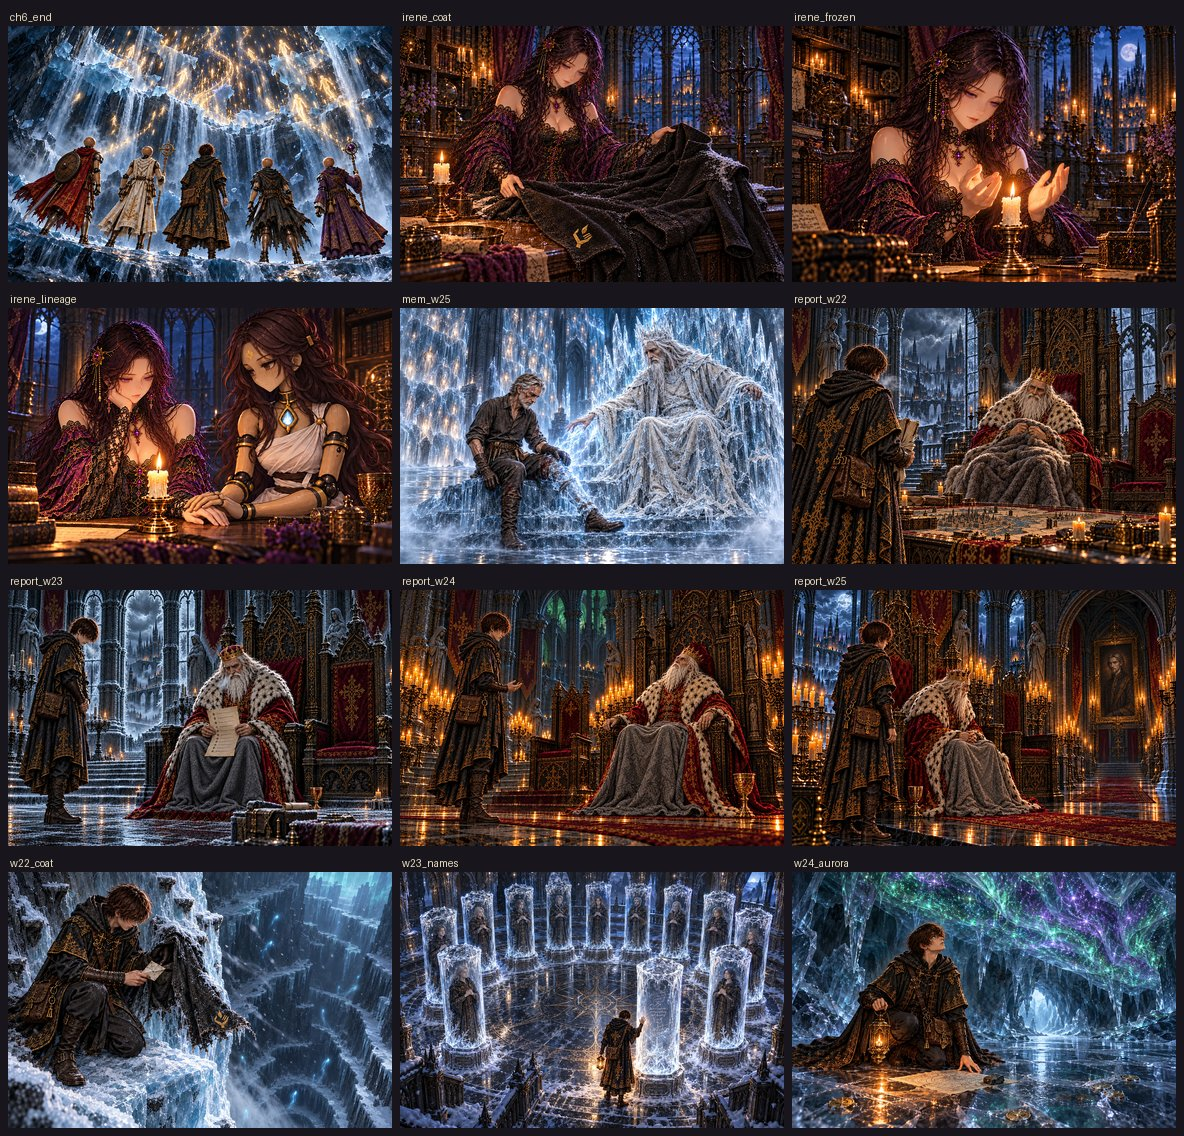
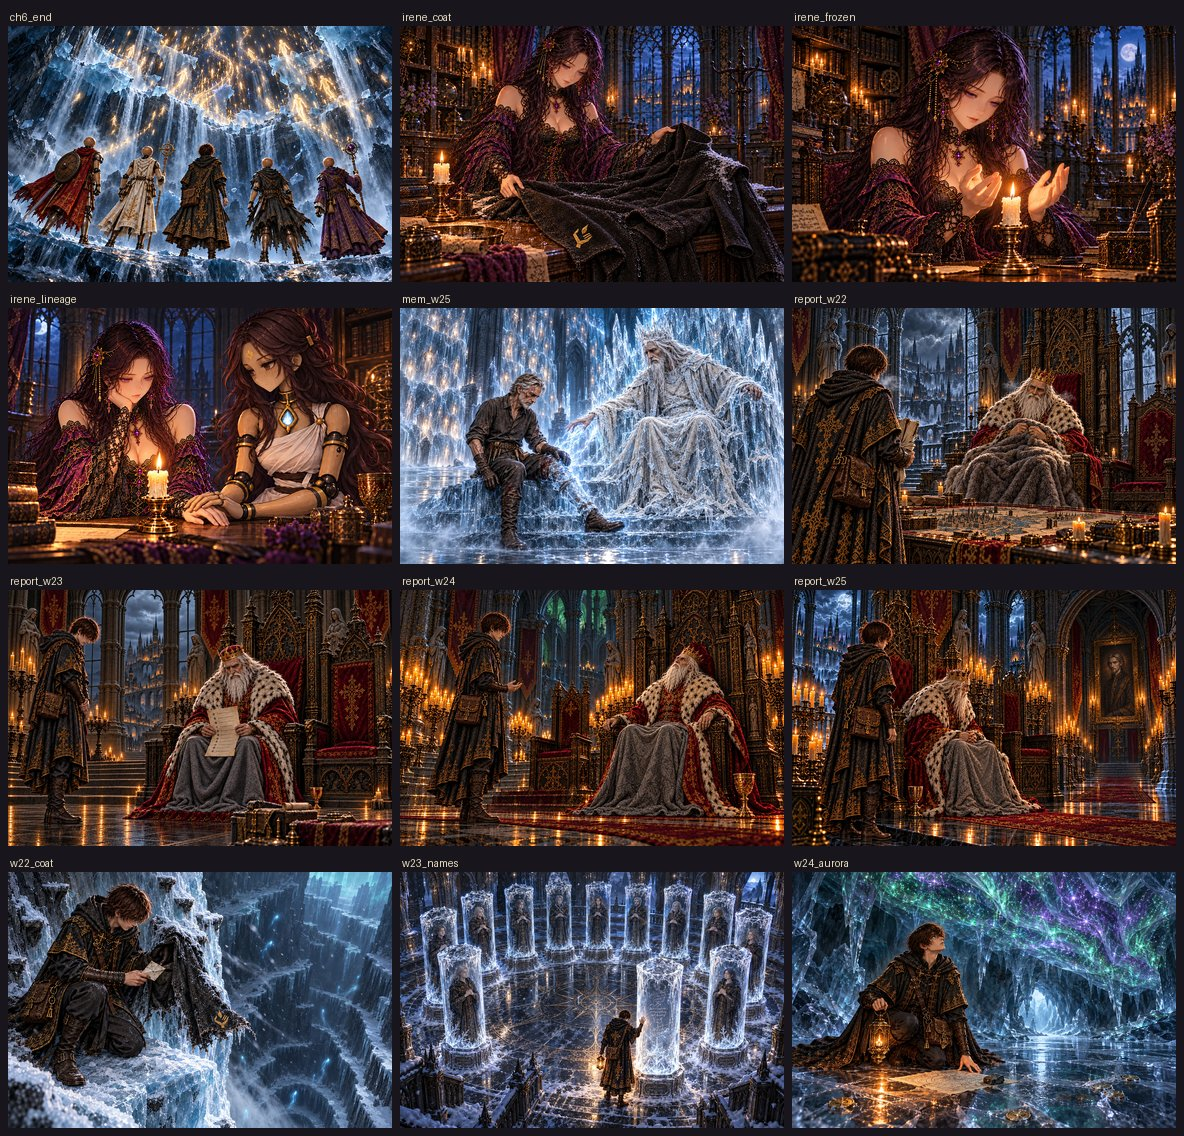
済まされていなかった処刑の王宮を凍結のない通常の姿へ修正

Changed region(s): [[0.0, 0.5238, 0.3438, 0.7702]]

diff --git a/docs/art/codex-story-art-brief.md b/docs/art/codex-story-art-brief.md
@@ -219,6 +219,14 @@ Character reference sheet on a plain dark slate-blue background with soft even l
 
 ### A. 必須 (物語の筋や正典と食い違う)
 
+**A-44. 第六章 report_w23「済まされていなかった処刑」王宮の凍結を除去** `art/story-review/chapter6/report_w23.png` (済)
+- ユーザー指示 (2026-10-17): 王宮を通常の玉座の間へ戻す。氷窟から帰っての報告であり、王宮は凍っていない。
+- 直すもの: 床・段・柱・窓枠・彫像・椅子・備品に積もる雪や氷、つらら、白い霜を取り除く。濡れて凍った床は磨かれた濃色の石床へ、窓は霜のない透明なガラスへ戻す。窓の外の王都にも雪や氷を描かない。通常の灰色の石造、黒鉄と金、深紅の織物、暖かな蝋燭の光にそろえる。
+- 保つもの: 老王の顔・白い髪とひげ・王冠・赤と白の衣装・灰色の膝掛け、手と羊皮紙、弟子の姿と礼、宰相の空の椅子、画面の構図と細かな画風。第六章なので窓の外は従来の曇った空のまま。修正前は `art/story-review/fixes/report_w23-before.png` に保存。
+```text
+...except: remove ALL ice, frost, snow and icicles from the throne room, including the floor, steps, columns, statues, window mullions, chair edges and furnishings. This is an ordinary inhabited royal palace, NOT the frozen dungeon the apprentice has just returned from. Restore clean dry grey carved stone, polished dark stone flooring with restrained candle reflections, unfrosted clear glass, black iron and gold details, and deep red textiles. Remove snowy or icy coatings from the city architecture visible outside. Give the room its normal warm amber candlelit atmosphere, retaining subtle cool light from the overcast windows. This chapter takes place before the blue sky returns: preserve the overcast sky rather than adding sunshine. Preserve the king's exact identity, white hair and beard, crown, red and white robes, grey lap blanket, both hands and the parchment; the apprentice's exact identity, costume, bowed pose and hands; the empty chancellor's chair, all furniture locations and the entire composition. Keep the same detailed fine-grained pixel-textured style. The king's white fur and grey blanket are cloth and fur: retain them unchanged. Do not add people, text or new objects.
+```
+
 **A-43. 第六章 irene_coat「師の外套」外套の形と印の向き** `art/story-review/chapter6/irene_coat.png` (済)
 - ユーザー承認の修正方針 (2026-10-17): 承認済み `docs/art/story-refs/ordo.png` の高い襟・左右の袖・長い身頃がつながる黒外套へ整える。肩と胴を卓上に横たえ、袖を自然に折り、イレーヌが裾を持ち上げる。重なった別の衣や腰帯に見える形を整理する。
 - 裾の小さな金糸の印は一つだけ。`docs/art/story-refs/sigil.png` の形を保ち、手首を裾の端へ、炎の先を襟・肩側へ向け、布の傾き・折れに沿わせる。画面の上下を基準に直立させない。
@@ -770,7 +778,7 @@ A vast ice hall. Twelve thick pillars of clear ice stand in a CIRCLE. Inside ele
 **report_w23「済まされていなかった処刑」** (報告)
 - 要点: 王は長く黙る。十二人を牢に入れたのは自分。宰相は「処刑は済ませました」と報告していた。実際は奈落へ投げこまれていた。
 ```text
-The same cold throne room. The very old king, lap blanket over his knees, sits in long silence holding a parchment listing eleven names; his eyes are closed in grief. The chancellor's chair beside him stands empty, a reminder of the lie. The apprentice waits, head bowed. Frost on windows, heavy clouds.
+The same ordinary inhabited gothic throne room, with dry carved grey stone, polished dark stone floors, black iron and gold furnishings, deep red textiles, and warm amber candlelight. No ice, frost, snow or icicles anywhere in the palace or on the city buildings outside. The very old king, lap blanket over his knees, sits in long silence holding a parchment listing eleven names; his eyes are closed in grief. The chancellor's chair beside him stands empty, a reminder of the lie. The apprentice waits, head bowed. Clear unfrosted windows, overcast sky.
 ```
 
 **w24_aurora「天井の星」** (手がかり / 迷宮「極光の氷窟」)
